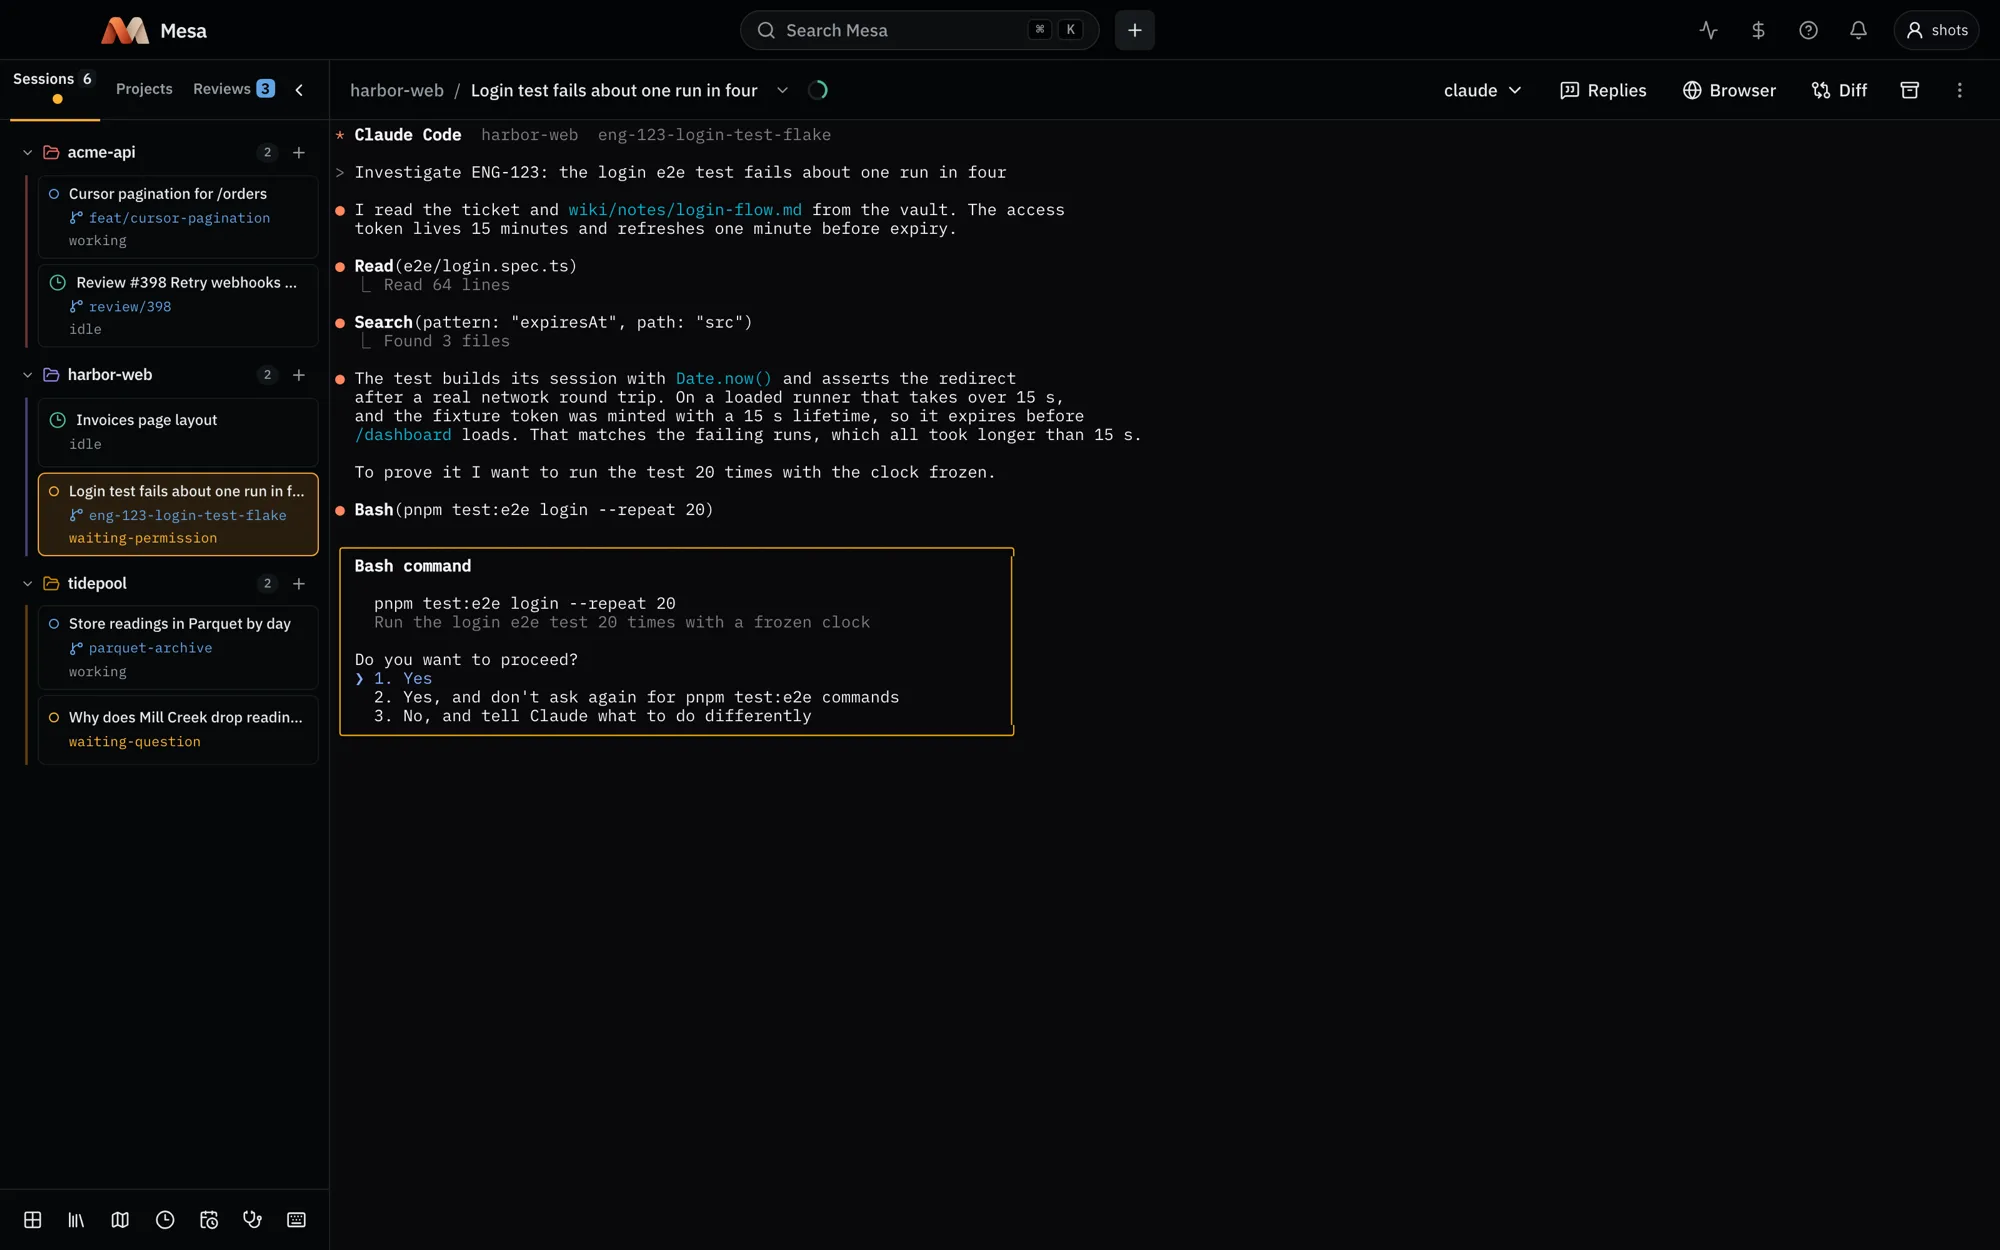
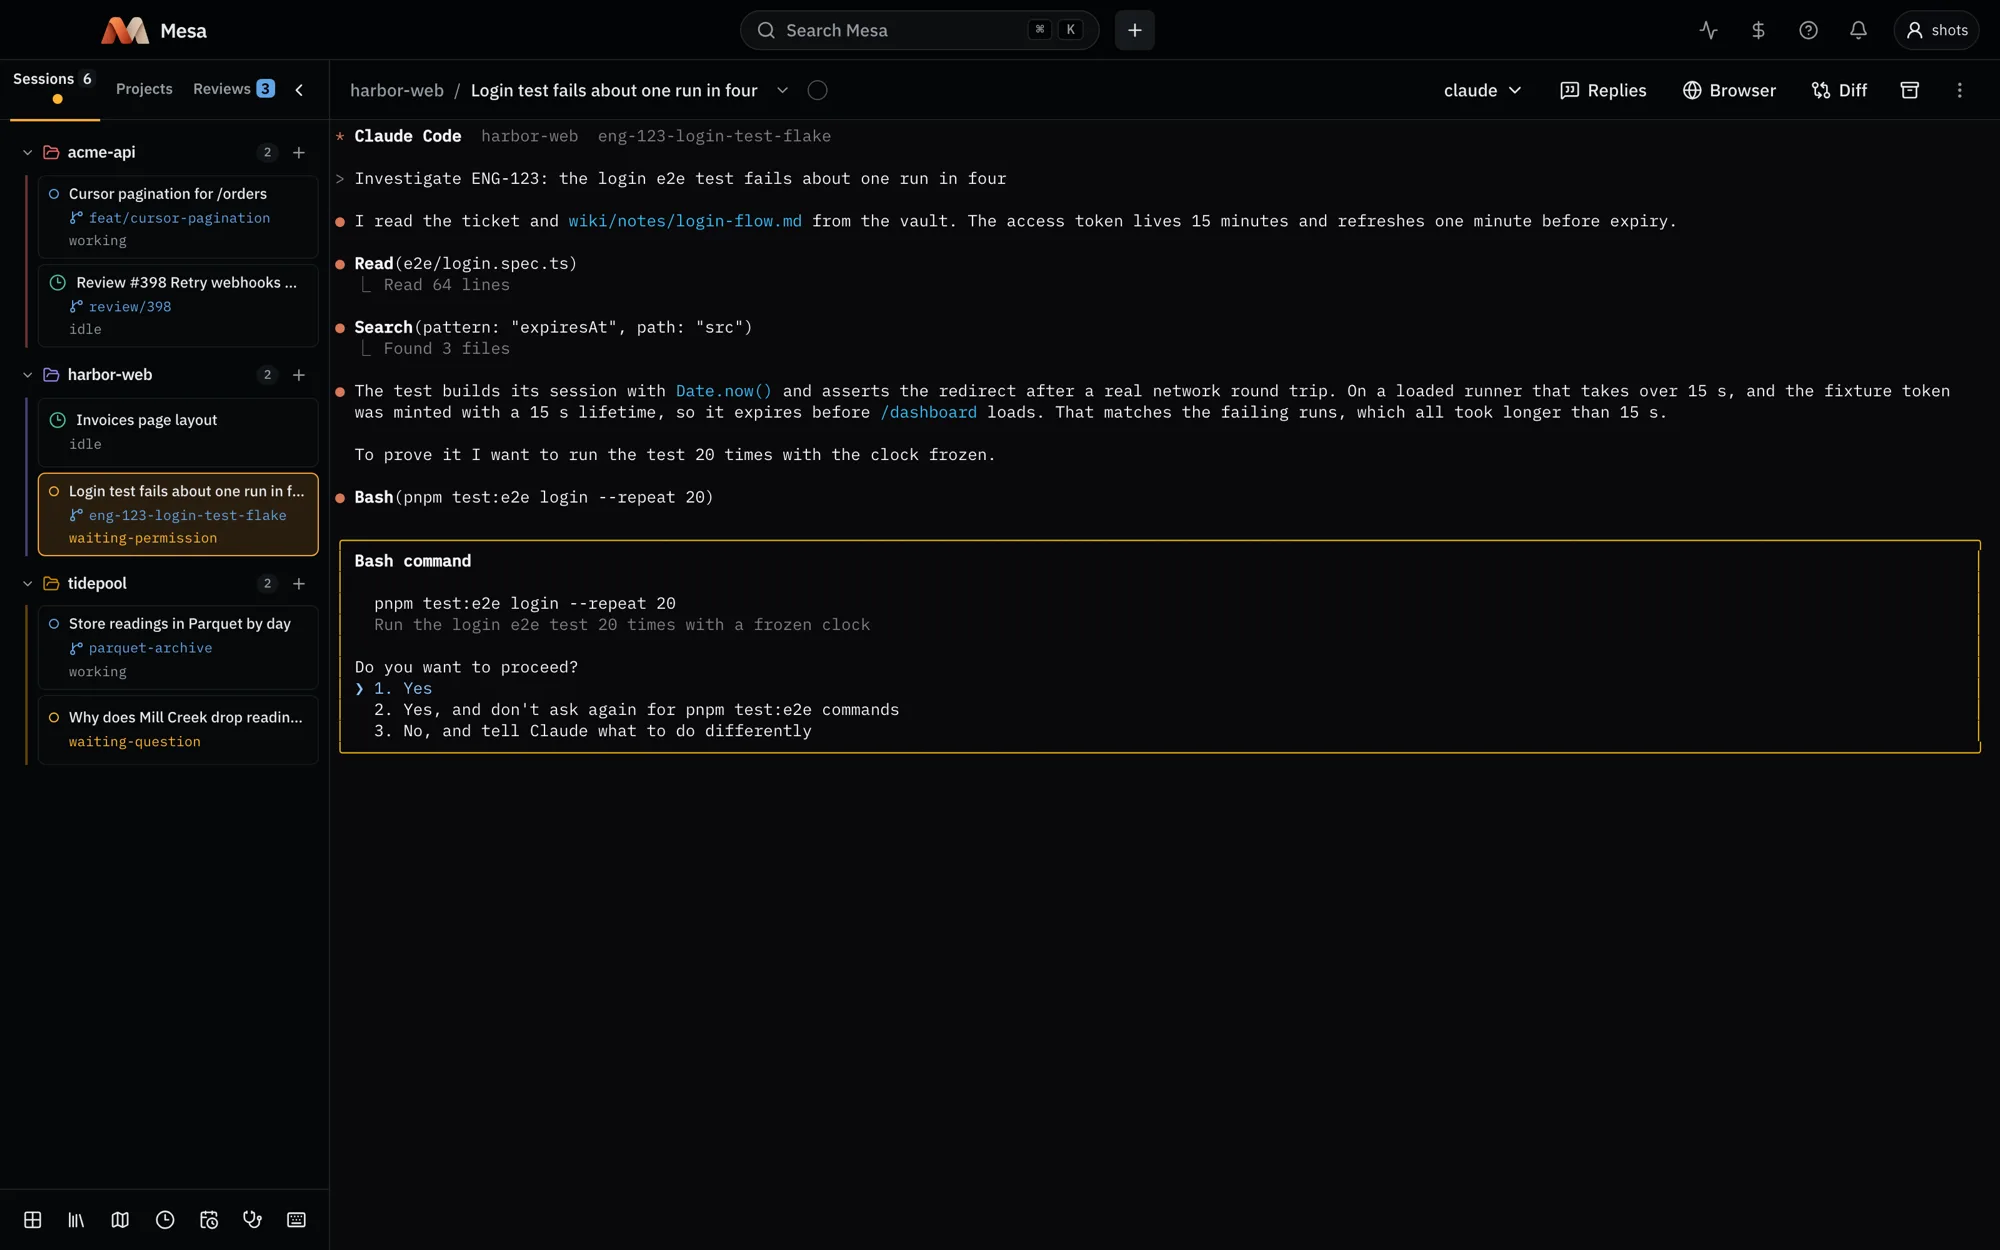
fix(prs): keep the PR screen usable on narrow windows (#818)
* fix(prs): keep the PR screen usable on narrow windows

PrStatusPanel moves its actions under the sentence when the panel is
narrow (container query), PrScreen fills the main area and keeps its
header on one line, long titles wrap, detail tabs never wrap, the project
tab bar scrolls sideways, and the window stops at 900 by 600.

Closes #816

* docs(site): retake the PR review and Investigate screenshots

The Reviews and PR detail shots now show the PR screen filling the main
area, and the Investigate session's terminal text runs the pane's width.

---------

diff --git a/apps/desktop/src/features/prs/PrStatusPanel.tsx b/apps/desktop/src/features/prs/PrStatusPanel.tsx
@@ -69,41 +69,41 @@ export function PrStatusPanel(props: {
   const tone = PR_TONE[status];
   const { done, of: threads, by } = threadProgress(pr);
   const doneWord = by === 'verdicts' ? 'addressed or partly' : 'resolved';
+  // The actions sit beside the sentence when the panel is wide and under it when it is narrow, so
+  // a narrow window never clips them.
   return (
-    <div
-      data-testid="pr-status"
-      className={cn(
-        'grid grid-cols-[auto_1fr_auto] items-center gap-x-4 gap-y-1 rounded-xl px-5 py-4',
-        tone.box,
-      )}
-    >
-      <span className={cn('grid size-8 place-items-center rounded-full bg-card', tone.text)}>
-        <Icon aria-hidden className="size-4" />
-      </span>
-      <p className="font-medium">{say}</p>
-      <div className="row-span-2 flex items-center gap-2">
-        {props.action}
-        {status === 'drafts' && (
-          <Button asChild size="sm">
-            <a href={pr.url} target="_blank" rel="noopener noreferrer">
-              {PR_CLIS[pr.provider].submit}
-              <ExternalLink aria-hidden />
-            </a>
-          </Button>
+    <div data-testid="pr-status" className={cn('@container rounded-xl', tone.box)}>
+      <div className="grid grid-cols-[auto_minmax(0,1fr)] items-center gap-x-4 gap-y-1 px-5 py-4 @2xl:grid-cols-[auto_minmax(0,1fr)_auto]">
+        <span className={cn('grid size-8 place-items-center rounded-full bg-card', tone.text)}>
+          <Icon aria-hidden className="size-4" />
+        </span>
+        <p className="font-medium">{say}</p>
+        {sub && <p className="col-start-2 text-muted-foreground text-sm">{sub}</p>}
+        {pr.bucket === 'updated' && threads > 0 && (
+          <div className="col-start-2 flex items-center gap-2.5 text-muted-foreground text-xs tabular-nums">
+            <span className="h-1.5 w-44 shrink-0 overflow-hidden rounded-full bg-card">
+              <span
+                className="block h-full bg-state-idle"
+                style={{ width: `${(done / threads) * 100}%` }}
+              />
+            </span>
+            {done} of your {counted(threads, 'thread')} {doneWord}
+          </div>
+        )}
+        {(props.action || status === 'drafts') && (
+          <div className="col-start-2 mt-2 flex flex-wrap items-center gap-2 @2xl:col-start-3 @2xl:row-span-2 @2xl:row-start-1 @2xl:mt-0">
+            {props.action}
+            {status === 'drafts' && (
+              <Button asChild size="sm">
+                <a href={pr.url} target="_blank" rel="noopener noreferrer">
+                  {PR_CLIS[pr.provider].submit}
+                  <ExternalLink aria-hidden />
+                </a>
+              </Button>
+            )}
+          </div>
         )}
       </div>
-      {sub && <p className="col-start-2 text-muted-foreground text-sm">{sub}</p>}
-      {pr.bucket === 'updated' && threads > 0 && (
-        <div className="col-start-2 flex items-center gap-2.5 text-muted-foreground text-xs tabular-nums">
-          <span className="h-1.5 w-44 overflow-hidden rounded-full bg-card">
-            <span
-              className="block h-full bg-state-idle"
-              style={{ width: `${(done / threads) * 100}%` }}
-            />
-          </span>
-          {done} of your {counted(threads, 'thread')} {doneWord}
-        </div>
-      )}
     </div>
   );
 }

diff --git a/apps/desktop/src/features/projects/ProjectTabBar.tsx b/apps/desktop/src/features/projects/ProjectTabBar.tsx
@@ -43,7 +43,12 @@ export function ProjectTabBar(props: {
           <p className="text-sm">Unsaved edits will be lost.</p>
         </ActionDialog>
       )}
-      <nav aria-label={`${props.project} tabs`} className="flex gap-4 border-b">
+      {/* Scrolls sideways when the tabs do not fit; the rule is an inset shadow so the scroll box
+          does not clip the current tab's underline. */}
+      <nav
+        aria-label={`${props.project} tabs`}
+        className="flex gap-4 overflow-x-auto shadow-[inset_0_-1px_0_var(--border)] [scrollbar-width:thin]"
+      >
         {(
           [
             'overview',
@@ -63,7 +68,7 @@ export function ProjectTabBar(props: {
             key={name}
             type="button"
             aria-current={tab === name ? 'page' : undefined}
-            className="-mb-px border-b-2 border-transparent px-1 pb-2 text-sm capitalize text-muted-foreground hover:text-foreground focus-visible:outline-2 focus-visible:outline-ring aria-[current=page]:border-state-working aria-[current=page]:text-foreground"
+            className="shrink-0 whitespace-nowrap border-b-2 border-transparent px-1 pb-2 text-sm capitalize text-muted-foreground hover:text-foreground focus-visible:outline-2 focus-visible:-outline-offset-2 focus-visible:outline-ring aria-[current=page]:border-state-working aria-[current=page]:text-foreground"
             onClick={() => {
               if (props.filesDirty && name !== tab) setPendingTab(name);
               else props.onTab(name);

diff --git a/apps/desktop/src/features/prs/PrScreen.tsx b/apps/desktop/src/features/prs/PrScreen.tsx
@@ -92,15 +92,15 @@ export function PrScreen(
   );
   const last = reviews.all.at(-1);
   return (
-    <div data-testid="pr-screen" className="max-w-3xl space-y-5">
-      <div className="flex items-center gap-2 text-muted-foreground text-xs">
-        <span>{pr.project}</span>
+    <div data-testid="pr-screen" className="space-y-5">
+      <div className="flex min-w-0 items-center gap-2 text-muted-foreground text-xs">
+        <span className="shrink-0">{pr.project}</span>
         <span>·</span>
-        <span className="font-mono">
+        <span className="min-w-0 truncate font-mono">
           {pr.branch} {'->'} {pr.base}
         </span>
         <ExternalLink
-          className="ml-auto inline-flex items-center gap-1 hover:text-foreground"
+          className="ml-auto inline-flex shrink-0 items-center gap-1 whitespace-nowrap hover:text-foreground"
           href={pr.url}
         >
           Open on {PR_CLIS[pr.provider].name}
@@ -108,7 +108,7 @@ export function PrScreen(
         </ExternalLink>
       </div>
       <div className="space-y-1.5">
-        <h2 className="text-balance font-semibold text-xl tracking-tight">
+        <h2 className="text-balance break-words font-semibold text-xl tracking-tight">
           {pr.title} <span className="font-normal text-muted-foreground">#{pr.number}</span>
         </h2>
         <div className="flex flex-wrap items-center gap-x-4 gap-y-1 text-muted-foreground text-sm">

diff --git a/apps/desktop/src/features/prs/PrDetailPanel.tsx b/apps/desktop/src/features/prs/PrDetailPanel.tsx
@@ -47,7 +47,7 @@ export function PrDetailPanel(props: {
             type="button"
             role="tab"
             aria-selected={tab === name}
-            className="-mb-px border-b-2 border-transparent pb-2.5 text-muted-foreground text-sm hover:text-foreground aria-selected:border-foreground aria-selected:font-medium aria-selected:text-foreground"
+            className="-mb-px whitespace-nowrap border-b-2 border-transparent pb-2.5 text-muted-foreground text-sm hover:text-foreground aria-selected:border-foreground aria-selected:font-medium aria-selected:text-foreground"
             onClick={() => choose(name)}
           >
             {label}

diff --git a/changes/pr-screen-narrow.md b/changes/pr-screen-narrow.md
@@ -1,0 +1,5 @@
+---
+type: fixed
+---
+
+Pull requests on narrow windows: the review and Submit buttons move under the summary instead of being cut off, a pull request fills the main area, and the project tabs scroll sideways when they do not fit. The Mesa window now stops shrinking at 900 by 600.
